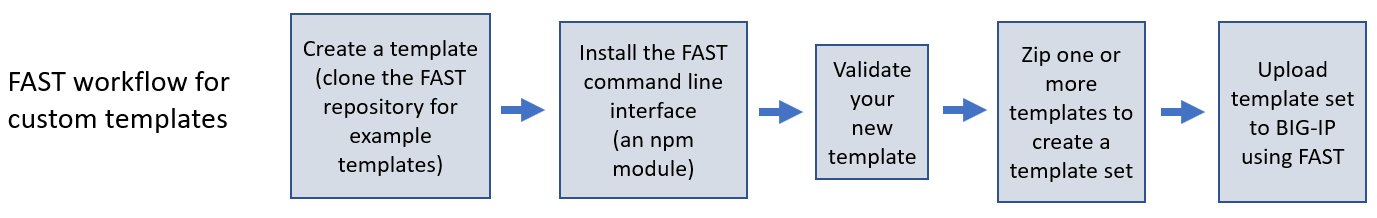
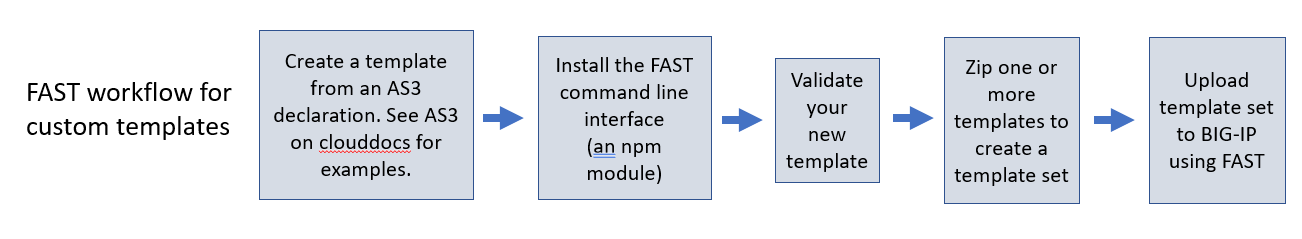
Jira 189

diff --git a/docs/userguide/template-authoring.rst b/docs/userguide/template-authoring.rst
@@ -28,51 +28,117 @@ For more information on a given command use the ``--help`` flag combined with a 
 | Use the following command to validate your template ``fast validate <filename>``
 | Use one of the following commands to zip your template ``zip <zipfile.zip> <sourcefile.mst>`` or  ``fast packageTemplateSet <templateSetPath>``
 | Upload and install your zip file using steps 8 and 9 from the example below
+|
+| For VSCode users, installing the F5 Automated Toolchain Extension helps with managing templates/declarations.
+| 1. Download and install the `VSCode Microsoft extension <https://marketplace.visualstudio.com/items?itemName=DumpySquare.vscode-f5-fast>`_
+| 2. Once installed, add a device:
+* Under the vscode extension settings, press F1, type f5, select "F5: Settings", click add item button, or
+* Add device from the F5 HOSTS view. Click F5: Add HOST button in top right of the extension view for "F5 HOSTS" 
+* See the `Device Mgmt <https://marketplace.visualstudio.com/items?itemName=DumpySquare.vscode-f5-fast>`_ section for more information.
 
 
 Hello World example
 -------------------
 
-In this section, we create a simple Hello World template and upload it to FAST.
+Choose an example AS3 declaration that fits your use case.  See `Example declarations <https://clouddocs.f5.com/products/extensions/f5-appsvcs-extension/latest/userguide/examples.html>`_ for AS3 examples.
+
+For our example we are creating a simple Hello World template with the following objects and uploading it to FAST.
+
+* Partition (tenant) named ``Sample_01``.
+* Virtual server (HTTP) named ``service``.
+* Pool named ``web_pool`` with 2 members monitored by the default *HTTP* health monitor.
+
 Later sections go into detail about the template specification and its entire feature set.
 
-#. Start by creating a file named **hello.mst** and copy the following parameterized AS3 declaration into it:
+|
+
+#. Start by creating a file named **hello.mst** and copy the following AS3 declaration into it:
 
    .. code-block:: none
 
       {
-        "class": "ADC",
-        "schemaVersion": "3.11.0",
-        "{{tenant_name}}": {
-          "class": "Tenant",
-          "{{application_name}}": {
-            "class": "Application",
-            "template": "http",
-            "serviceMain": {
-              "class": "Service_HTTP",
-              "virtualAddresses": ["{{virtual_address}}"],
-              "pool": "web_pool_{{port}}"
+        "class": "AS3",
+        "action": "deploy",
+        "persist": true,
+        "declaration": {
+          "class": "ADC",
+          "schemaVersion": "3.0.0",
+          "id": "urn:uuid:33045210-3ab8-4636-9b2a-c98d22ab915d",
+          "label": "Sample 1",
+          "remark": "Simple HTTP application with RR pool",
+          "Sample_01": {
+             "class": "Tenant",
+            "A1": {
+              "class": "Application",
+              "service": {
+                 "class": "Service_HTTP",
+                "virtualAddresses": [
+                  "10.0.1.10"
+                ],
+                "pool": "web_pool"
             },
-            "web_pool_{{port}}": {
-              "class": "Pool",
-              "monitors": [
-                "http"
-              ],
-              "members": [
-                {
-                  "servicePort": {{port::integer}},
-                  "serverAddresses": {{server_addresses::array}}
+            "web_pool": {
+               "class": "Pool",
+               "monitors": [
+                  "http"
+               ],
+               "members": [{
+                  "servicePort": 80,
+                  "serverAddresses": [
+                     "192.0.1.10",
+                     "192.0.1.11"
+                       ]
+                    }]
+                  }
                 }
-              ]
-            }
+             }
           }
-        }
       }
 
    This is a basic template that creates an HTTP Virtual IP allowing you to specify the Virtual IP, a list of server addresses, and a port to use for both the front and back end.
    The tenant name and application name are also specified by the user.
 
 #. Save the file.
+#. The parameterized declaration.
+
+   .. code-block:: none
+
+      {
+        "class": "AS3",
+        "action": "deploy",
+        "persist": true,
+        "declaration": {
+          "class": "ADC",
+          "schemaVersion": "3.0.0",
+          "id": "urn:uuid:33045210-3ab8-4636-9b2a-c98d22ab915d",
+          "label": "Sample 1",
+          "remark": "Simple HTTP application with RR pool",
+          "{{tenant_name}}": {
+              "class": "Tenant",
+            "{{application_name}}": {
+              "class": "Application",
+              "service": {
+                  "class": "Service_HTTP",
+                "virtualAddresses": [
+                  "{{virtual_address}}"
+                ],
+                "pool": "web_pool"
+          },
+          "web_pool": {
+             "class": "Pool",
+             "monitors": [
+                "http"
+             ],
+             "members": [{
+                "servicePort": 80,
+                "serverAddresses": {{server_addresses::array}}
+                  }]
+                }
+              }
+            }
+          }
+      }
+
 #. If the FAST NPM module is installed globally on your system, we can validate it and try rendering it with the following command:  ``fast validate hello.mst``
 #. Create the following file named **params.json**:
 
@@ -82,8 +148,7 @@ Later sections go into detail about the template specification and its entire fe
         "tenant_name": "TestTenant",
         "application_name": "MyTestApp",
         "virtual_address": "0.0.0.0",
-        "port": 80,
-        "serverAddresses": [
+        "server_addresses": [
           "10.0.0.1",
           "10.0.0.2"
         ]
